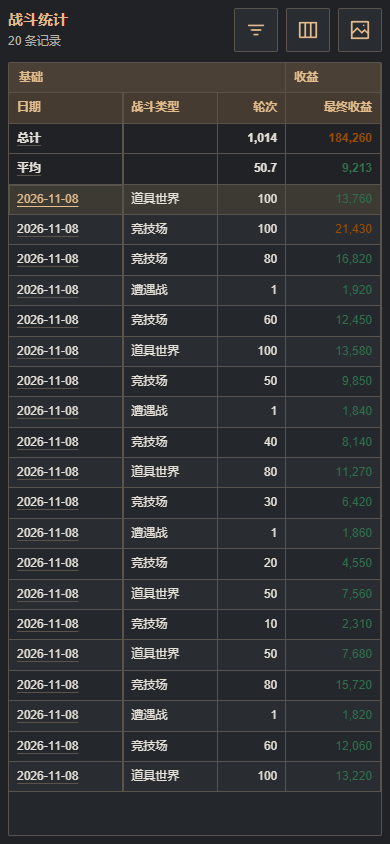
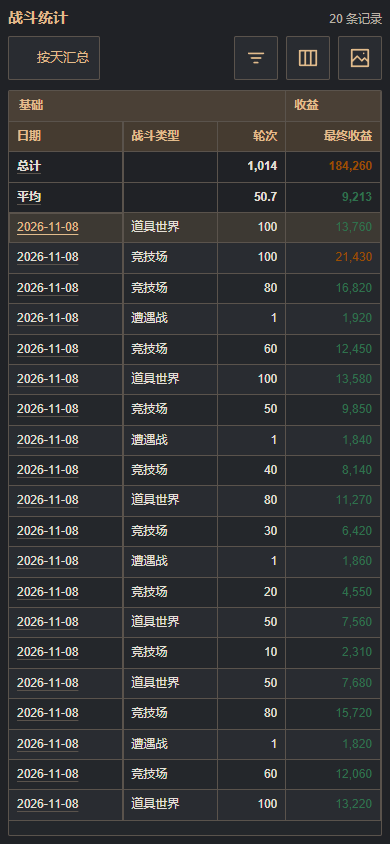
Restore checkbox filters and stabilize animated column settings; release 2026.11.08.17

Changed region(s): [[0.0, 0.0, 0.9846, 0.9858], [0.7077, 0.0, 0.7385, 0.0308], [0.5538, 0.9242, 0.5846, 0.955]]

diff --git a/JPX-PLUS.user.js b/JPX-PLUS.user.js
@@ -2,7 +2,7 @@
 // @name         JPX-PLUS
 // @namespace    ijpx
 // @author       MeiYongAI
-// @version      2026.11.08.16
+// @version      2026.11.08.17
 // @description  JPX-PLUS
[1 lines of base64/hex data omitted]
 // @run-at       document-end
@@ -270,7 +270,7 @@ const settingsPlugins = new Map();
 // Generic extension tabs remain supported. Store credentials stay in this sandbox.
 window.JPXPlus = Object.freeze({
     apiVersion: 1,
-    version: '2026.11.08.16',
+    version: '2026.11.08.17',
     features: Object.freeze({ configManagement: true }),
     migrateLegacyConfigs: entries => migrateJpxLegacyConfigs(entries),
     registerSettingsTab(plugin) {
@@ -1448,13 +1448,8 @@ let cfg = {
         #settings-container .jpx-rule-item > summary > .jpx-array-item-actions { grid-column: 4; grid-row: 1; }
         #settings-container .jpx-rule-summary-heading { display: flex; min-width: 0; align-items: center; gap: 8px; }
         /* Keep the summary and actions stationary throughout disclosure. */
+        ${jpxDisclosureCSS('#settings-container .jpx-rule-item')}
         @supports (interpolate-size: allow-keywords) and selector(details::details-content) {
-            #settings-container .jpx-rule-item::details-content {
-                interpolate-size: allow-keywords;
-                block-size: 0; overflow: clip;
-                transition: block-size var(--jpx-motion) ease-out, content-visibility var(--jpx-motion) allow-discrete;
-            }
-            #settings-container .jpx-rule-item[open]::details-content { block-size: auto; }
             #settings-container .jpx-rule-item:has(.multiSelect-summary[aria-expanded=true])::details-content { overflow: visible; }
             #settings-container .jpx-rule-bulk-toggle .jpx-rule-item::details-content { transition: none; }
         }
@@ -6537,6 +6532,21 @@ function openJpxRecordsCleanup(targetWindow = window, initial = {}) {
     doc.body.append(dialog); dialog.showModal(); update();
 }
 
+// Shared with the settings rule editor: native disclosure supports reversal
+// without measuring heights or scheduling per-frame JavaScript work.
+function jpxDisclosureCSS(selector) {
+    return `
+        @supports (interpolate-size: allow-keywords) and selector(details::details-content) {
+            ${selector}::details-content {
+                interpolate-size: allow-keywords;
+                block-size: 0; overflow: clip;
+                transition: block-size var(--jpx-motion) ease-out, content-visibility var(--jpx-motion) allow-discrete;
+            }
+            ${selector}[open]::details-content { block-size: auto; }
+        }
+    `;
+}
+
 function createStatsColumnControls(doc, onChange) {
     const root = doc.createElement('section'); root.className = 'jpx-records-columns';
     root.setAttribute('aria-label', t('sP.displayColumns'));
@@ -6597,13 +6607,15 @@ function createStatsColumnControls(doc, onChange) {
         name.textContent = t('sP.group_' + group.id); count.className = 'jpx-records-column-count'; counts.set(group.id,count);
         caption.append(name,count); label.append(toggle,caption); header.append(label);
         toggle.addEventListener('change', () => change(group.id, null, toggle.checked));
-        const fields = doc.createElement('div'); fields.className = 'jpx-records-column-fields'; fields.id = 'jpx-records-fields-' + group.id; fields.hidden = true;
+        const fields = doc.createElement('div'); fields.className = 'jpx-records-column-fields'; fields.id = 'jpx-records-fields-' + group.id; fields.inert = true;
         fields.setAttribute('role','group'); fields.setAttribute('aria-label',name.textContent);
         const expand = doc.createElement('button'); expand.type = 'button'; expand.className = 'jpx-records-icon jpx-records-column-expand';
         expand.dataset.expandGroup = group.id; expand.append(createSettingsIcon('chevronDown'));
         expand.title = t('sP.displayColumns') + ' · ' + name.textContent; expand.setAttribute('aria-label',expand.title);
         expand.setAttribute('aria-controls',fields.id); expand.setAttribute('aria-expanded','false');
-        expand.onclick = () => { fields.hidden = !fields.hidden; expand.setAttribute('aria-expanded',String(!fields.hidden)); };
+        const disclosure = doc.createElement('details'); disclosure.className = 'jpx-records-column-disclosure';
+        const summary = doc.createElement('summary'); summary.hidden = true; disclosure.append(summary,fields);
+        expand.onclick = () => { disclosure.open = !disclosure.open; fields.inert = !disclosure.open; expand.setAttribute('aria-expanded',String(disclosure.open)); };
         header.append(expand);
         for (const id of group.fields) {
             const label = doc.createElement('label'), input = doc.createElement('input');
@@ -6611,7 +6623,7 @@ function createStatsColumnControls(doc, onChange) {
             label.append(input, doc.createTextNode('')); fields.append(label);
             input.addEventListener('change', () => change(group.id,id,input.checked));
         }
-        section.append(header,fields); editor.append(section);
+        section.append(header,disclosure); editor.append(section);
     }
     root.append(editor,status); update();
     return { node:root, update, dismissToast };
@@ -6637,7 +6649,11 @@ function renderBattleRecordsPage(targetWindow = window) {
     previousImageActions?.dispose?.(); previousImageActions?.remove();
     const filterState = targetWindow._jpxRecordsFilterState ||= { panel: null, inputs: null };
     const previousFilters = doc.getElementById('filtersDiv');
-    if (previousFilters) filterState.inputs = [...previousFilters.querySelectorAll('input')].map(input => ({ value: input.value, checked: input.checked }));
+    if (previousFilters) {
+        const aggregate = doc.getElementById('filter-aggregate');
+        if (aggregate) previousFilters.querySelector('.jpx-records-tools-row').append(aggregate);
+        filterState.inputs = [...previousFilters.querySelectorAll('input')].map(input => ({ value: input.value, checked: input.checked }));
+    }
     filterState.cleanup?.();
     doc.head.replaceChildren();
     doc.body.replaceChildren();
@@ -6670,7 +6686,10 @@ function renderBattleRecordsPage(targetWindow = window) {
         .jpx-records-icon[aria-expanded=true] { background:#ead9b8; border-color:#b49369; }
         @media(hover:hover) { .jpx-records-icon:hover { background:#eee2c9; } }
         .jpx-records-sheet { inset:0; width:min(600px,calc(100% - 32px)); max-width:none; max-height:calc(100dvh - 48px); margin:auto; padding:0; border:1px solid #c8b49b; border-radius:2px; background:#f9f6ec; color:#392d25; box-shadow:0 3px 10px #0002; overflow:hidden; }
+        .jpx-records-sheet { --jpx-motion:160ms; --jpx-motion-fast:120ms; }
+        .jpx-records-sheet[data-panel=columns] { height:min(620px,calc(100dvh - 48px)); }
         .jpx-records-sheet[open] { display:flex; flex-direction:column; }
+        .jpx-records-sheet[data-panel=columns] .jpx-records-sheet-body { flex:1; }
         .jpx-records-sheet::backdrop { background:rgb(16 13 10 / 42%); }
         .jpx-records-sheet-header { flex:none; display:flex; align-items:center; justify-content:space-between; gap:12px; padding:12px 16px; border-bottom:1px solid #ddd0bd; }
         .jpx-records-sheet-header h2 { margin:0; font-size:18px; color:#5c0d11; }
@@ -6684,12 +6703,15 @@ function renderBattleRecordsPage(targetWindow = window) {
         .jpx-records-filter { display:flex; flex-direction:column; align-items:flex-start; gap:6px; min-width:0; max-width:100%; }
         .jpx-records-filter-label { color:#5c0d11; font-weight:700; line-height:1.5; }
         .jpx-records-filter-options { display:flex; flex-wrap:wrap; align-items:center; gap:8px; min-width:0; }
-        .jpx-records-filter-options label { --option-bg: #fffdf7; --option-border: #d3c5b2; position: relative; isolation: isolate; display: inline-flex; align-items: center; justify-content: center; min-height: 44px; padding: 6px 12px; border: 1px solid transparent; border-radius: 2px; cursor: pointer; user-select: none; touch-action: manipulation; }
-        .jpx-records-filter-options label::before { content: ''; position: absolute; inset: 2px 0; z-index: -1; border: 1px solid var(--option-border); border-radius: 2px; background: var(--option-bg); pointer-events: none; }
-        .jpx-records-filter-options label:has(input:checked) { --option-bg: #ead9b8; --option-border: #b49369; color: #5c0d11; }
-        @media (hover: hover) { .jpx-records-filter-options label:not(:has(input:checked)):hover { --option-bg: #f0eadf; --option-border: #c1ab8c; } }
-        .jpx-records-filter-options label:has(input:focus-visible)::before { outline: 1px solid #9b4e03; outline-offset: -1px; box-shadow: 0 0 0 2px rgb(155 78 3 / 12%); }
-        #filtersDiv input[type=checkbox] { position: absolute; inset: 0; width: 100%; height: 100%; margin: 0; opacity: 0; cursor: pointer; }
+        #filtersDiv .jpx-records-filter-options label { display:inline-flex; align-items:center; gap:8px; min-height:44px; min-width:44px; padding:4px 2px; cursor:pointer; user-select:none; touch-action:manipulation; }
+        #filtersDiv input[type=checkbox] { position:static; width:16px; height:16px; flex:none; margin:0; opacity:1; }
+        #filter-aggregate { flex:none; margin-right:8px; }
+        #filter-aggregate label { position:relative; display:inline-flex; align-items:center; justify-content:center; gap:6px; min-height:44px; padding:8px 10px; border:1px solid #c8b49b; border-radius:2px; background:#f9f6ec; color:#5c0d11; cursor:pointer; white-space:nowrap; user-select:none; touch-action:manipulation; }
+        #filter-aggregate label:has(input:checked) { background:#ead9b8; border-color:#b49369; }
+        #filter-aggregate label::before { content:'✓'; width:12px; visibility:hidden; }
+        #filter-aggregate label:has(input:checked)::before { visibility:visible; }
+        #filter-aggregate label:has(input:focus-visible) { outline:2px solid #9b4e03; outline-offset:2px; }
+        #filter-aggregate input { position:absolute; inset:0; width:100%; height:100%; margin:0; opacity:0; cursor:pointer; }
         .jpx-records-filter-tools .jpx-records-filter-label { flex: none; font-weight: normal; }
         .jpx-records-tools-row { display: flex; flex-wrap: wrap; align-items: center; gap: 6px 16px; min-width: 0; }
         .jpx-records-filter-tools .jpx-records-filter { flex-wrap: wrap; gap: 0 8px; }
@@ -6715,6 +6737,8 @@ function renderBattleRecordsPage(targetWindow = window) {
         .jpx-records-column-heading strong { display:block; font-size:14px; }
         .jpx-records-column-count { display:block; color:#71634f; font-size:12px; margin-top:2px; }
         .jpx-records-column-expand { border:0; background:transparent; }
+        .jpx-records-column-expand svg { transition:transform var(--jpx-motion) ease-out; }
+        ${jpxDisclosureCSS('.jpx-records-column-disclosure')}
         .jpx-records-column-expand[aria-expanded=true] svg { transform:rotate(180deg); }
         .jpx-records-column-fields { display:grid; grid-template-columns:repeat(2,minmax(0,1fr)); gap:8px; border-top:1px solid #ddd0bd; padding:12px; }
         .jpx-records-column-fields label { padding:0 4px; font-size:13px; }
@@ -6742,7 +6766,13 @@ function renderBattleRecordsPage(targetWindow = window) {
         .jpx-records-message { margin: 0; padding: 28px 16px; text-align: center; color: #71634f; }
         @media(max-width:650px),(pointer:coarse) and (orientation:landscape) and (max-height:600px) {
             .jpx-records-page { gap:10px; padding:max(8px,env(safe-area-inset-top,0px)) max(8px,env(safe-area-inset-right,0px)) max(8px,env(safe-area-inset-bottom,0px)) max(8px,env(safe-area-inset-left,0px)); }
+            .jpx-records-toolbar { display:grid; grid-template-columns:minmax(0,1fr); gap:8px; }
+            .jpx-records-heading { display:flex; align-items:baseline; justify-content:space-between; gap:12px; }
             .jpx-records-heading h1 { font-size:15px; }
+            .jpx-records-count { margin:0; }
+            .jpx-records-actions { min-width:0; }
+            #filter-aggregate { margin-right:auto; }
+            .jpx-records-sheet[data-panel=columns] { height:min(620px,88dvh); }
             .jpx-records-sheet { inset:auto 0 0; width:100%; max-height:88dvh; margin:0; border-radius:0; border-bottom:0; }
             .jpx-records-sheet-header { padding:12px max(16px,env(safe-area-inset-right,0px)) 10px max(16px,env(safe-area-inset-left,0px)); }
             .jpx-records-sheet-body { padding:16px max(16px,env(safe-area-inset-right,0px)) max(20px,env(safe-area-inset-bottom,0px)) max(16px,env(safe-area-inset-left,0px)); }
@@ -6752,7 +6782,7 @@ function renderBattleRecordsPage(targetWindow = window) {
             .jpx-records-table-scroll { min-height:0; border-radius:2px; }
         }
         @media(max-height:500px) { .jpx-records-sheet { max-height:calc(100dvh - 12px); } }
-        @media(prefers-reduced-motion:reduce) { .jpx-records-icon { transition:none; } }
+        @media(prefers-reduced-motion:reduce) { .jpx-records-icon { transition:none; } .jpx-records-sheet { --jpx-motion:0ms; --jpx-motion-fast:0ms; } }
     `);
     applyJpxTheme(doc);
     const page = doc.createElement('main');
@@ -6836,7 +6866,9 @@ function renderBattleRecordsPage(targetWindow = window) {
     const count = doc.createElement('p'); count.className = 'jpx-records-count'; count.textContent = t('sP.loadingRecords'); count.setAttribute('role','status');
     heading.append(title,count);
     const actions = doc.createElement('nav'); actions.className = 'jpx-records-actions'; actions.setAttribute('aria-label',t('sP.jpxStats'));
-    toolbar.append(heading,actions);
+    const aggregate = filters.querySelector('#filter-aggregate');
+    aggregate.onchange = () => filterState.refresh?.();
+    actions.append(aggregate); toolbar.append(heading,actions);
     const sheet = doc.createElement('dialog'); sheet.id = 'jpx-records-sheet'; sheet.className = 'jpx-records-sheet';
     sheet.setAttribute('aria-labelledby','jpx-records-sheet-title');
     const sheetHeader = doc.createElement('header'); sheetHeader.className = 'jpx-records-sheet-header';
@@ -6869,7 +6901,7 @@ function renderBattleRecordsPage(targetWindow = window) {
     close.onclick = () => sheet.close();
     sheet.addEventListener('keydown',event => {
         if (event.key !== 'Tab') return;
-        const controls = [...sheet.querySelectorAll('button:not(:disabled),input:not(:disabled),[tabindex="0"]')].filter(node => node.getClientRects().length);
+        const controls = [...sheet.querySelectorAll('button:not(:disabled),input:not(:disabled),[tabindex="0"]')].filter(node => node.getClientRects().length && !node.closest('[inert]'));
         const first = controls[0], last = controls[controls.length - 1];
         if (event.shiftKey && doc.activeElement === first) { event.preventDefault(); last.focus(); }
         else if (!event.shiftKey && doc.activeElement === last) { event.preventDefault(); first.focus(); }

diff --git a/JPX-PLUS-ZhHK.user.js b/JPX-PLUS-ZhHK.user.js
@@ -1,7 +1,7 @@
 // ==UserScript==
 // @name         JPX-PLUS Traditional Chinese (Hong Kong) Language Pack
 // @namespace    ijpx
-// @version      2026.11.08.16
+// @version      2026.11.08.17
 // @description  JPX-PLUS 繁體中文（香港）語言包；請只啟用一個 JPX-PLUS 語言包。
 // @run-at       document-end
 // @match        *://*.hentaiverse.org/*

diff --git a/JPX-PLUS-ZhTW.user.js b/JPX-PLUS-ZhTW.user.js
@@ -1,7 +1,7 @@
 // ==UserScript==
 // @name         JPX-PLUS Traditional Chinese (Taiwan) Language Pack
 // @namespace    ijpx
-// @version      2026.11.08.16
+// @version      2026.11.08.17
 // @description  JPX-PLUS 繁體中文（台灣）語言包；請只啟用一個 JPX-PLUS 語言包。
 // @run-at       document-end
 // @match        *://*.hentaiverse.org/*

diff --git a/JPX-PLUS-ZhTrans.user.js b/JPX-PLUS-ZhTrans.user.js
@@ -1,7 +1,7 @@
 // ==UserScript==
 // @name         JPX-PLUS Simplified Chinese Language Pack
 // @namespace    ijpx
-// @version      2026.11.08.16
+// @version      2026.11.08.17
 // @description  JPX-PLUS 简体中文语言包；请只启用一个 JPX-PLUS 语言包。
 // @run-at       document-end
 // @match        *://*.hentaiverse.org/*

diff --git a/JPX-PLUS-Ja.user.js b/JPX-PLUS-Ja.user.js
@@ -1,7 +1,7 @@
 // ==UserScript==
 // @name         JPX-PLUS Japanese Language Pack
 // @namespace    ijpx
-// @version      2026.11.08.16
+// @version      2026.11.08.17
 // @description  JPX-PLUS 日本語言語パック
 // @run-at       document-end
 // @match        *://*.hentaiverse.org/*

diff --git a/JPX-PLUS-Ko.user.js b/JPX-PLUS-Ko.user.js
@@ -1,7 +1,7 @@
 // ==UserScript==
 // @name         JPX-PLUS Korean Language Pack
 // @namespace    ijpx
-// @version      2026.11.08.16
+// @version      2026.11.08.17
 // @description  JPX-PLUS 한국어 언어 팩
 // @run-at       document-end
 // @match        *://*.hentaiverse.org/*

diff --git a/CHANGELOG.md b/CHANGELOG.md
@@ -1,5 +1,19 @@
 # Changelog
 
+## 2026.11.08.17
+
+- **Checkbox filters.** World, result, battle type and difficulty return to visible native checkboxes with touch-sized labels. The toolbar exposes Aggregate by Day as a compact text toggle with a check indicator; it retains the original filter input, keyboard behavior and redraw state.
+- **Stable column window.** Expanding a category no longer increases or repositions the Choose columns dialog. Its viewport-limited height stays fixed while the contents scroll; close controls remain in place on desktop, small phones and landscape screens.
+- **Reused disclosure motion.** The statistics categories and existing rule editor share the same native-details transition, timing and easing. Rapid reversal is supported, collapsed fields are inert, and reduced-motion preferences disable the transition. Opening a category does not rescan history.
+- **Verification.** Full offline regression: 548/548. Focused statistics/shared-browser checks: 48/48. Build, language consistency and 96 preview scenarios pass. Light/dark layouts, small-phone languages, portrait/landscape, aggregation state and stationary-window animation were checked in isolated Chrome fixtures, not a live account or installed userscript.
+
+### 简体中文
+
+- **筛选恢复勾选框**：世界、结果、战斗类型和难度改回可见的原生勾选框，保留方便触摸的整行标签；“按天汇总”移到顶栏，保持文字切换样式，启用时带对勾。沿用原筛选输入，重绘和切换屏幕尺寸后状态不丢失。
+- **显示项目窗口不再拉长**：窗口保持受屏幕高度限制的固定尺寸，展开分类只增加内部滚动内容，标题与关闭按钮不移动，兼容手机横竖屏。
+- **复用原有展开动画**：与规则编辑器共用 native details 动画、时长和缓动，支持快速反向操作与减少动画偏好；收起内容不可获焦，展开不重新读取历史。
+- **验证**：全量离线回归 548/548、统计与共享专项 48/48 通过；构建、语言一致性和 96 个预览场景通过。明暗主题、多语言窄屏、横竖屏、汇总状态与窗口固定动画均使用隔离 Chrome 页面验证，未操作真实账号或已安装脚本。
+
 ## 2026.11.08.16
 
 - **Table-first records layout.** The permanent filter/category blocks and floating text controls are replaced by a compact title/count and three named icon buttons: filters, columns and image actions. Data starts immediately below the toolbar, including at 320px.

diff --git a/README.md b/README.md
@@ -96,8 +96,8 @@ On mobile, filters fold beside search, row actions stay compact, and settings us
 ## Battle stats and controls
 
 - Filter records, inspect an individual battle, and copy or download stats as an image.
-- The records page opens directly on the table. Three icon buttons open **Filters**, **Choose columns** and **Image**; on phones these open a bottom sheet with a fixed close button. Controls follow the existing HV square-corner, thin-border style.
-- In **Choose columns**, toggle one of eight categories or expand its arrow to select individual metrics. Changes save automatically and are shared between primary and alt; hiding a category keeps its item selections. Group headers preserve names, colors and order within each category.
+- The records page opens directly on the table. The toolbar offers an **Aggregate by Day** toggle and three icon buttons for **Filters**, **Choose columns** and **Image**; on phones these open a bottom sheet with a fixed close button. Filters use visible checkboxes. Controls follow the existing HV square-corner, thin-border style.
+- In **Choose columns**, toggle one of eight categories or expand its arrow to select individual metrics. Expansion reuses the settings editor animation; the window keeps its height and the contents scroll inside. Changes save automatically and are shared between primary and alt; hiding a category keeps its item selections. Group headers preserve names, colors and order within each category.
 - Clear stored records by a selected range.
 - Customize the draggable panel and statistics colors with live previews; choose light or dark UI.
 - Edit battle rules, conditions and shortcuts with undo and redo.

diff --git a/README.zh-CN.md b/README.zh-CN.md
@@ -96,8 +96,8 @@
 ## 战斗统计与操作
 
 - 筛选记录、查看单场明细，复制或下载统计图片。
-- 记录页打开即显示表格，顶部三个图标分别进入**筛选、选择显示项目、图片**。手机上按需打开底部抽屉，关闭按钮固定在抽屉顶部；界面沿用 HV 的直角与细边框风格。
-- 在**选择显示项目**内切换八类显示开关，点击分类右侧箭头选择具体列。修改自动保存并由主站与 alt 共享；隐藏分类保留原有项目勾选。两层表头保留自定义名称、颜色和分类内顺序。
+- 记录页打开即显示表格，顶栏提供**按天汇总**切换和**筛选、选择显示项目、图片**三个图标入口；筛选项使用可见勾选框。手机上按需打开底部抽屉，关闭按钮固定在抽屉顶部；界面沿用 HV 的直角与细边框风格。
+- 在**选择显示项目**内切换八类显示开关，点击分类右侧箭头选择具体列，复用设置页展开动画；窗口高度不随展开变化，内容在内部滚动。修改自动保存并由主站与 alt 共享；隐藏分类保留原有项目勾选。两层表头保留自定义名称、颜色和分类内顺序。
 - 按选定范围清理已保存的统计记录。
 - 悬浮面板可拖动，面板及统计配色可即时预览，支持浅色与暗色界面。
 - 战斗规则、条件与快捷键编辑支持撤销和重做。
